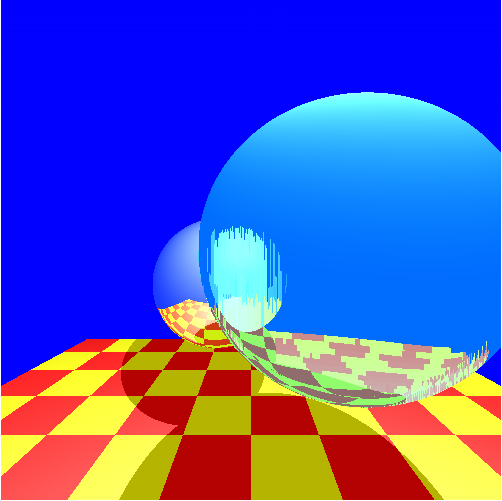
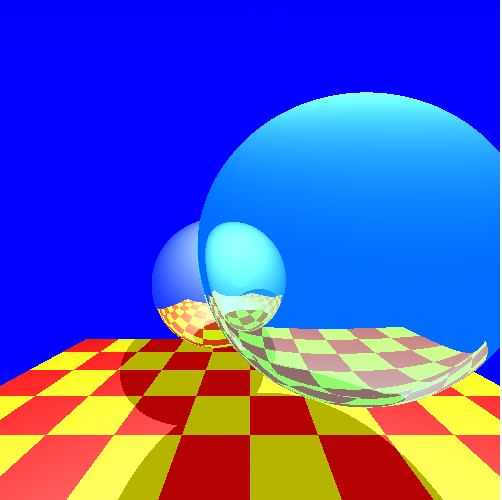
Updated transmission image & webpage for tone reproduction

diff --git a/index.html b/index.html
@@ -1,11 +1,13 @@
-<a href="scene-setup/index.html">Scene Setup</a>
+<a href="scene-setup/index.html">Checkpoint 1 : Scene Setup</a>
 <br>
-<a href="homeworks/ray-tracer.html">Ray tracing framework</a>
+<a href="homeworks/ray-tracer.html">Checkpoint 2 : Ray tracing framework</a>
 <br>
-<a href="homeworks/basic-shading.html">Basic shading</a>
+<a href="homeworks/basic-shading.html">Checkpoint 3 : Basic shading</a>
 <br>
-<a href="homeworks/procedural-texturing.html">Procedural Texturing</a>
+<a href="homeworks/procedural-texturing.html">Checkpoint 4 : Procedural Texturing</a>
 <br>
-<a href="homeworks/reflection.html">Reflection</a>
+<a href="homeworks/reflection.html">Checkpoint 5 : Reflection</a>
 <br>
-<a href="homeworks/transmission.html">Transmission</a>
+<a href="homeworks/transmission.html">Checkpoint 6 : Transmission</a>
+<br>
+<a href="homeworks/tone-reproduction.html">Checkpoint 7 : Tone Reproduction</a>

diff --git a/homeworks/tone-reproduction.html b/homeworks/tone-reproduction.html
@@ -1,0 +1,24 @@
+<html>
+<head>
+	<title>Nikhil Verma</title>
+</head>
+<body>
+	<h1>Tone Reproduction</h1>
+	<h2>Ward Perpetual Tone Reproduction</h2>
+	<img src="ward-10.png" alt="Ward tone reproduction at 10 nits">
+	<h3>10 Nits</h3>
+	<img src="ward-100.png" alt="Ward tone reproduction at 100 nits">
+	<h3>100 Nits</h3>
+	<img src="ward-1000.png" alt="Ward tone reproduction at 1000 nits">
+	<h3>1000 Nits</h3>
+
+	<h2>Reinhard Perpetual Tone Reproduction</h2>
+	<img src="reinhard-10.png" alt="Reinhard tone reproduction at 10 nits">
+	<h3>10 Nits</h3>
+	<img src="reinhard-100.png" alt="Reinhard tone reproduction at 100 nits">
+	<h3>100 Nits</h3>
+	<img src="reinhard-1000.png" alt="Reinhard tone reproduction at 1000 nits">
+	<h3>1000 Nits</h3>
+
+</body>
+</html>
